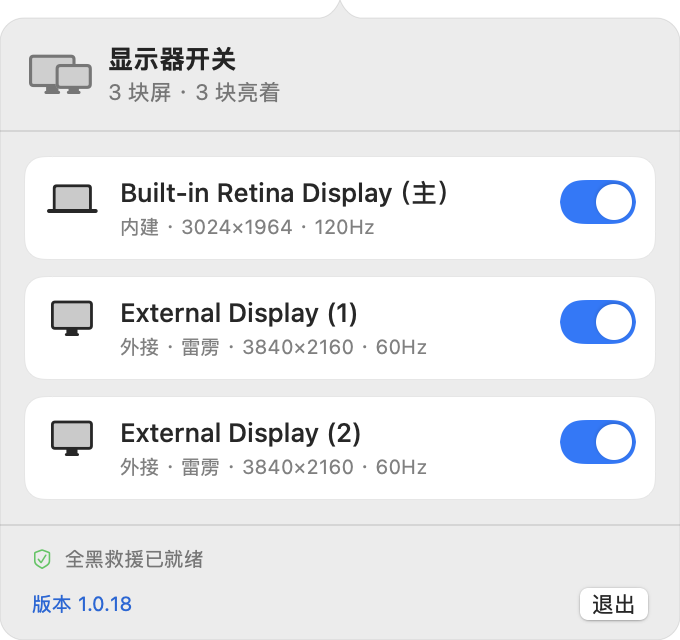
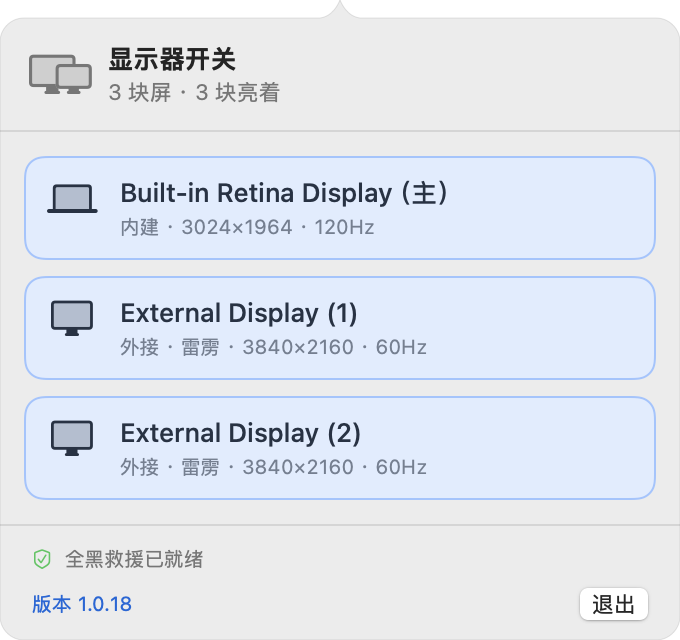
🎨 候选版 1.0.18:整行底色表示开关,再点图标能收起面板
他验收上一版时指出两处:
- 再点图标面板收不起来:菜单栏图标由系统的菜单栏进程托管,点图标对本 app 来说也算「外面」的点击,
  先被「点面板外收起」收起,紧接着图标的点击动作又把它打开。改为点在图标上的不算外面。
- 他要的是「点行开关」,不要任何开关控件;上一版右侧仍留着一个只显示状态的开关图形,看上去仍是按钮。
  按他选的样式改为整行底色:开着浅蓝底、关着普通底且图标文字变淡并写「已关闭」(不只靠颜色)。
  浅蓝取系统强调色(SwiftUI 的 accentColor 在按钮禁用时会变灰,锁住的行就看不出开着,实测)。
README 与设计文档同步。83 项单测全绿,构建无警告,自检通过。未发版,等他确认。

diff --git a/Sources/DisplaySwitchUI/PanelView.swift b/Sources/DisplaySwitchUI/PanelView.swift
@@ -95,7 +95,8 @@ public struct PanelView: View {
     }
 }
 
-/// 一块屏一张卡片:**整行就是开关**,点哪里都行;右侧的开关图形只显示真实状态,不单独接收点击。
+/// 一块屏一张卡片,**整行就是开关**:点一下就切换,没有任何开关控件(他的要求)。
+/// 开着的行是浅蓝底,关着的行是普通底、图标与文字变淡并写「已关闭」——不只靠颜色区分。
 /// 被锁住时整行不可点,并直接写出原因。
 private struct DisplayRow: View {
     let item: DisplayMenuItem
@@ -124,15 +125,13 @@ private struct DisplayRow: View {
                             .padding(.top, 2)
                     }
                 }
-                Spacer(minLength: 8)
-                SwitchIndicator(isOn: item.isOn, dimmed: !clickable)
-                    .padding(.top, 2)
+                Spacer(minLength: 0)
             }
             .padding(10)
             .frame(maxWidth: .infinity, alignment: .leading)
             .contentShape(Rectangle())
         }
-        .buttonStyle(RowButtonStyle())
+        .buttonStyle(RowButtonStyle(isOn: item.isOn))
         .disabled(!clickable)
         .help(locked ? (item.lockReason ?? "") : (item.isOn ? "点击关掉这块屏" : "点击打开这块屏"))
         .accessibilityLabel("\(item.label),\(item.isOn ? "已打开" : "已关闭")")
@@ -140,51 +139,33 @@ private struct DisplayRow: View {
     }
 }
 
-/// 开关的样子,只用来显示状态(整行才是点击区域)。外形与系统开关一致:开为强调色,关为灰。
-private struct SwitchIndicator: View {
-    let isOn: Bool
-    let dimmed: Bool
-
-    var body: some View {
-        ZStack(alignment: isOn ? .trailing : .leading) {
-            Capsule()
-                .fill(isOn ? Color.accentColor : Color(nsColor: .tertiaryLabelColor).opacity(0.35))
-            Circle()
-                .fill(Color.white)
-                .shadow(color: .black.opacity(0.18), radius: 0.8, y: 0.5)
-                .padding(2)
-        }
-        .frame(width: 38, height: 22)
-        .opacity(dimmed ? 0.45 : 1)
-        .animation(.easeOut(duration: 0.15), value: isOn)
-    }
-}
-
-/// 卡片底色;鼠标悬停时加深一点,按下时再深一点——让人看出整行可以点。
+/// 行的底色即开关状态:开着浅蓝底(系统强调色调淡)、关着普通底。
+/// 鼠标悬停时加深一点、按下时再深一点,让人看出整行可以点;锁住的行没有悬停反馈。
 private struct RowButtonStyle: ButtonStyle {
+    let isOn: Bool
+
     func makeBody(configuration: Configuration) -> some View {
-        RowBody(configuration: configuration)
+        RowBody(configuration: configuration, isOn: isOn)
     }
 
     private struct RowBody: View {
         let configuration: ButtonStyle.Configuration
+        let isOn: Bool
         @Environment(\.isEnabled) private var isEnabled
         @State private var hovering = false
 
         var body: some View {
+            let shape = RoundedRectangle(cornerRadius: 10, style: .continuous)
+            // 直接取系统强调色:SwiftUI 的 accentColor 在按钮被禁用时会自动变灰,
+            // 锁住的行(亮着但不能关)就会看不出「开着」(实测)。
+            let accent = Color(nsColor: .controlAccentColor)
             configuration.label
-                .background(
-                    RoundedRectangle(cornerRadius: 10, style: .continuous)
-                        .fill(Color(nsColor: .controlBackgroundColor))
-                )
-                .overlay(
-                    RoundedRectangle(cornerRadius: 10, style: .continuous)
-                        .fill(Color.primary.opacity(!isEnabled ? 0 : configuration.isPressed ? 0.09 : hovering ? 0.045 : 0))
-                )
-                .overlay(
-                    RoundedRectangle(cornerRadius: 10, style: .continuous)
-                        .strokeBorder(Color(nsColor: .separatorColor), lineWidth: 0.5)
-                )
+                .background(shape.fill(Color(nsColor: .controlBackgroundColor)))
+                .overlay(shape.fill(accent.opacity(isOn ? 0.14 : 0)))
+                .overlay(shape.fill(Color.primary.opacity(!isEnabled ? 0 : configuration.isPressed ? 0.08 : hovering ? 0.04 : 0)))
+                .overlay(shape.strokeBorder(isOn ? accent.opacity(0.35) : Color(nsColor: .separatorColor),
+                                            lineWidth: isOn ? 1 : 0.5))
+                .animation(.easeOut(duration: 0.15), value: isOn)
                 .onHover { hovering = $0 }
         }
     }

diff --git a/Sources/DisplaySwitchApp/StatusPanelController.swift b/Sources/DisplaySwitchApp/StatusPanelController.swift
@@ -113,8 +113,14 @@ final class StatusPanelController: NSObject {
     private func installEventMonitors() {
         guard eventMonitors.isEmpty else { return }
         // 点到别的 app 或桌面:收起。全局监听只收得到本 app 以外的点击,点面板本身不会触发。
-        if let m = NSEvent.addGlobalMonitorForEvents(matching: [.leftMouseDown, .rightMouseDown],
-                                                     handler: { [weak self] _ in self?.closePanel() }) {
+        // 但菜单栏图标由系统的菜单栏进程托管,点图标对我们来说也是「外面」的点击:若在这里收起,
+        // 图标自己的点击动作紧接着又把面板打开,看上去就是「再点图标收不起来」(他实测)。
+        // 所以点在图标上的不算外面,交给图标的点击动作去开关。
+        if let m = NSEvent.addGlobalMonitorForEvents(matching: [.leftMouseDown, .rightMouseDown], handler: { [weak self] _ in
+            guard let self else { return }
+            if let icon = self.iconFrame(), icon.contains(NSEvent.mouseLocation) { return }
+            self.closePanel()
+        }) {
             eventMonitors.append(m)
         }
         // Esc 收起。

diff --git a/docs/superpowers/specs/2026-06-18-display-switch-design.md b/docs/superpowers/specs/2026-06-18-display-switch-design.md
@@ -59,13 +59,14 @@ Mac 外接双显示器场景下,希望用一个**极简**的菜单栏小工具,*
 一个 macOS 菜单栏常驻应用(`LSUIElement = true`,无 Dock 图标、无主窗口),Swift + AppKit + SwiftUI,**零第三方依赖**。
 
 交互(v1.0.17 起):点菜单栏图标 → 弹出面板(点面板外自动收起)。顶部一句摘要(「3 块屏 · 2 块亮着」);
-每块屏一张卡片(含内建):名称、说明行(内建 / 外接 · 接法 · 分辨率与刷新率,关着时写「已关闭」)、右侧开关;
+每块屏一张卡片(含内建):名称、说明行(内建 / 外接 · 接法 · 分辨率与刷新率,关着时写「已关闭」);**点整行切换**,开着浅蓝底、关着普通底;
 开关被锁住时卡片里直接写原因;底部是全黑救援状态(点开救援日志)、版本号(点开仓库)、「退出」。
 版式借鉴 MonitorBar;配色跟随系统外观、只用系统语义色(浅色、实底,不做透明)。
 v1.0.16 及以前是原生 `NSMenu`,每块一行带勾选。
 
 v1.0.18 按他用下来的反馈改了三处(都经他真机复现、日志核对):
-- **整行就是开关**,右侧开关图形只显示状态。v1.0.17 用系统开关控件把「目标值」传给逻辑层,
+- **整行就是开关,没有任何开关控件**(他的要求;开着浅蓝底、关着普通底并变淡写「已关闭」,不只靠颜色)。
+  中间一版留了一个只显示状态的开关图形,他指出看上去仍是按钮,已去掉。v1.0.17 用系统开关控件把「目标值」传给逻辑层,
   实测它自己记的状态落后一步,打开面板后第一下传回的总是当前值,于是第一下没反应;
   现在界面不保存任何开关状态,点哪行就「翻转哪块」,开还是关由 Core 按系统真实状态当场决定。
 - **面板是自管窗口,不再用 NSPopover**。开关主屏时 macOS 会把菜单栏连同图标搬到新主屏,

diff --git a/README.md b/README.md
@@ -24,7 +24,8 @@ DisplaySwitch 只做这一件事，但把它做到不会出事：开关任意一
 
 ## 功能
 
-- 点菜单栏图标弹出面板，**每块屏一张卡片**（含内建屏）：内建 / 外接、接法（雷雳 / HDMI / USB-C）、分辨率与刷新率，右侧开关。
+- 点菜单栏图标弹出面板，**每块屏一张卡片**（含内建屏）：内建 / 外接、接法（雷雳 / HDMI / USB-C）、分辨率与刷新率。
+- **点整行就开 / 关**，没有小开关要瞄准：开着的行是浅蓝底，关着的行变淡并写「已关闭」。
 - **开关被锁住时直接写原因**：「至少要保留一块屏幕点亮」——不只是变灰。
 - 面板底部显示**全黑救援是否就绪**和上次救援的时间；点它打开救援日志。
 - 显示名 = 系统名 + 稳定编号 +（主）。同型号多块屏按 UUID 编号 `(1)(2)`，关、开、挪位置都不会串号。
